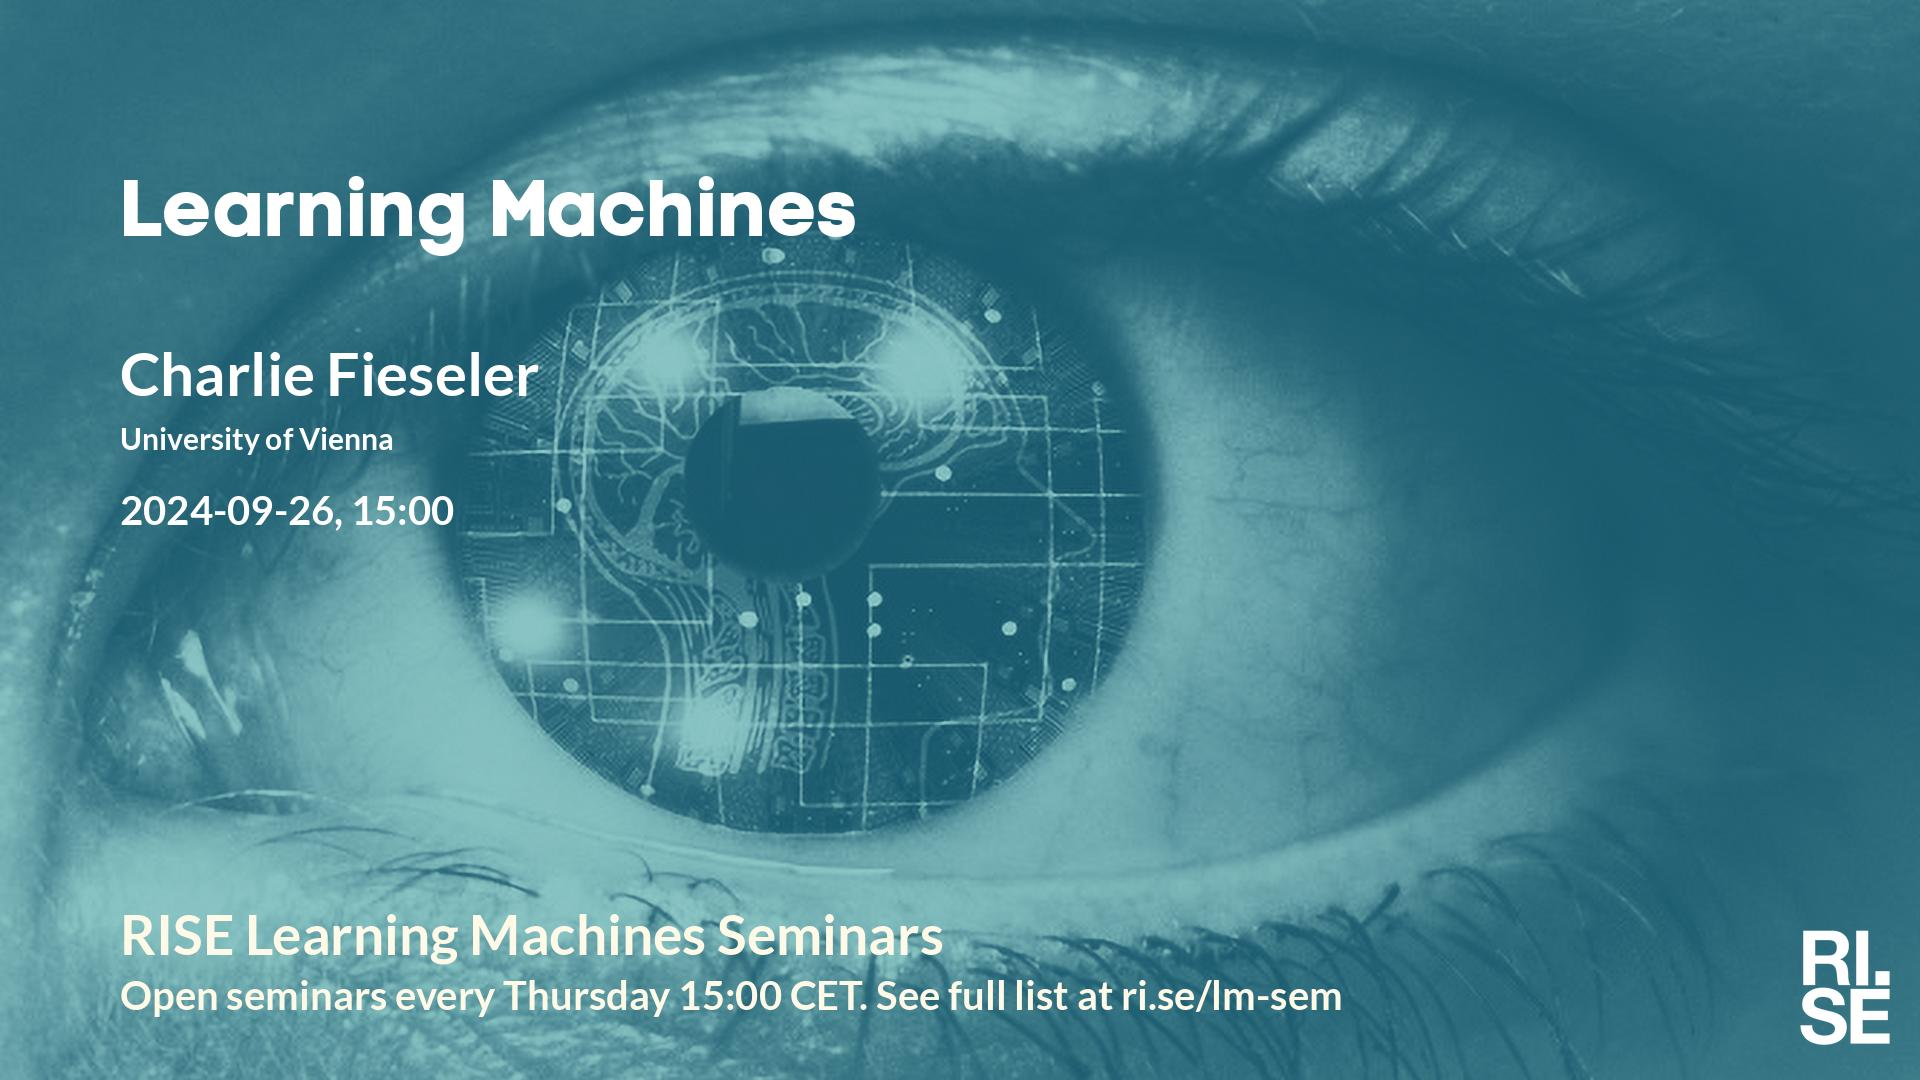
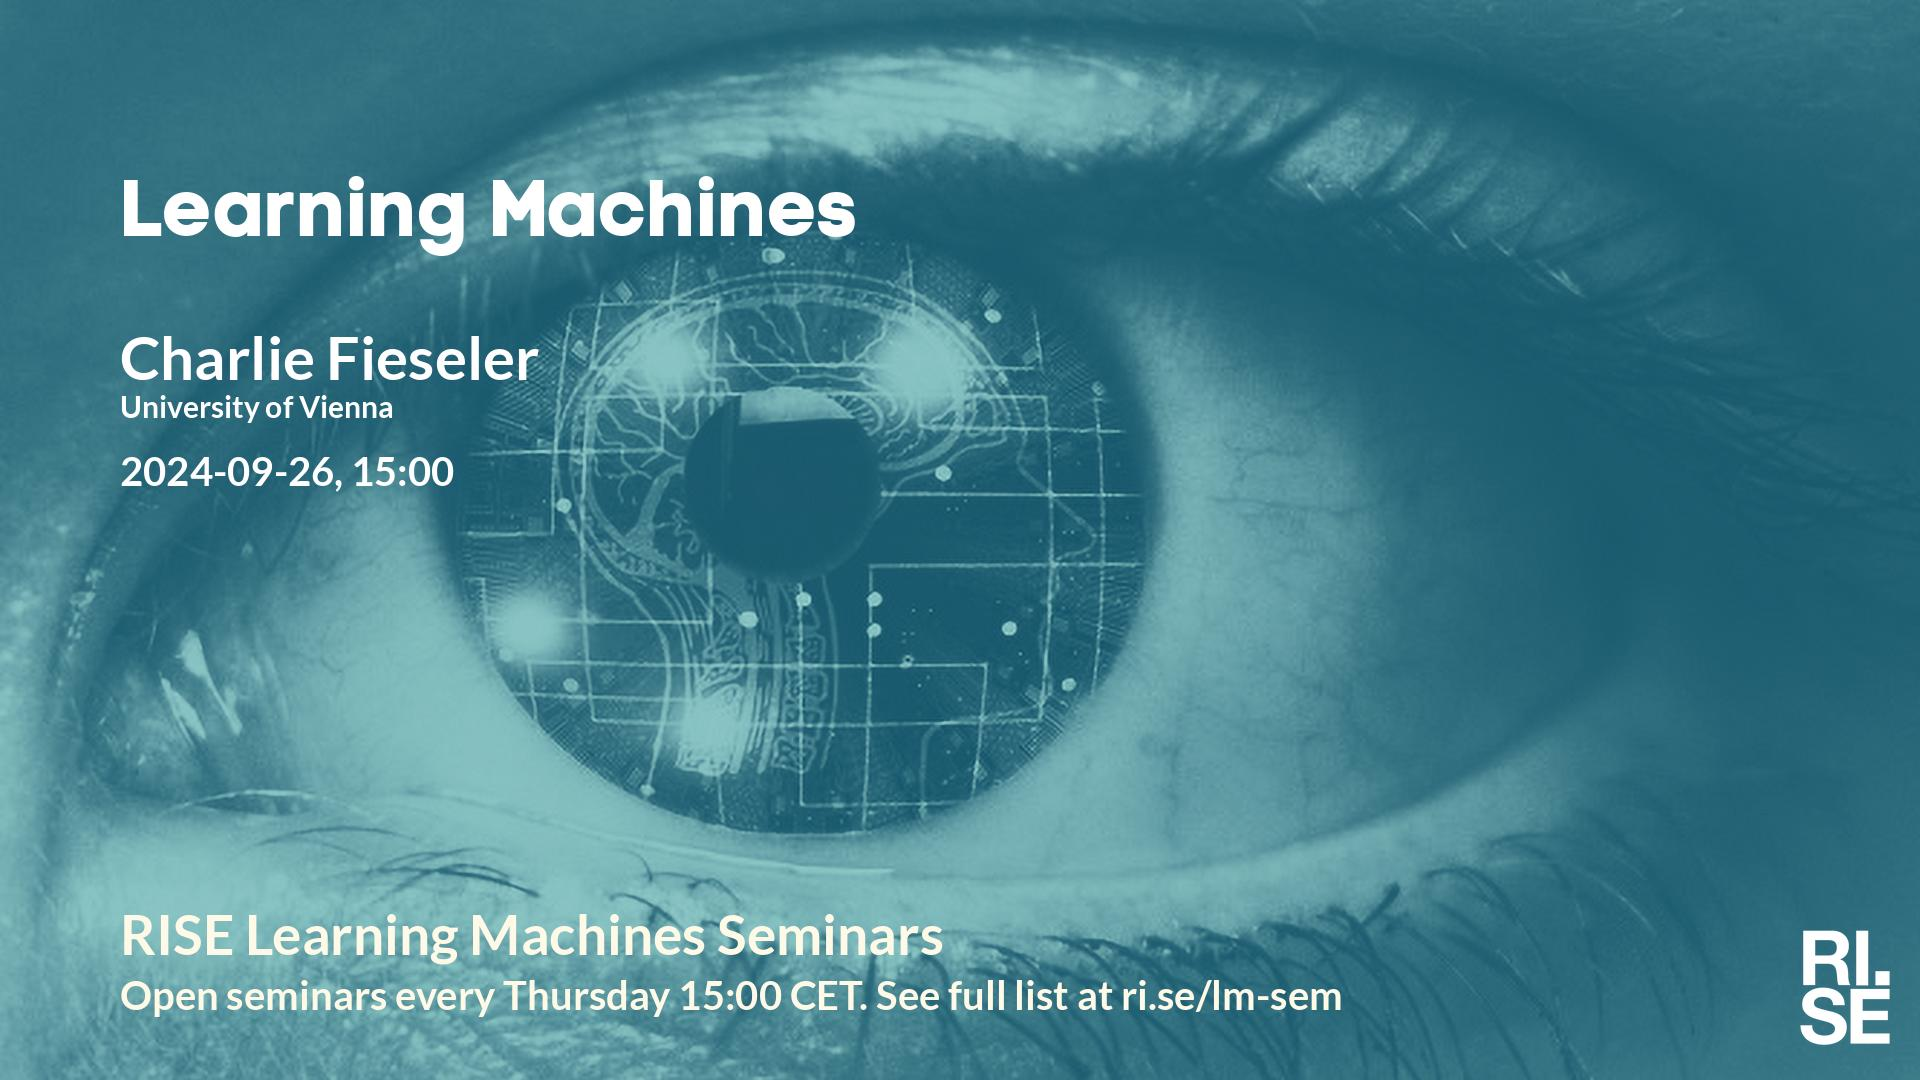
Updated plan on web site.

Changed region(s): [[0.0625, 0.3056, 0.2812, 0.4889]]

diff --git a/lm/index.md b/lm/index.md
@@ -5,7 +5,7 @@ metatags: "<meta name=\"robots\" content=\"noindex,nofollow\" />"
 <style type="text/css" scoped>
 td, th {border: 1px solid #ccc; padding: 0.6em;}
 table {border-collapse: collapse;}
-</style># Learning Machines Plan 2024-08-12
+</style># Learning Machines Plan 2024-08-16
 
 | date | speaker                                   | photo | shareable | meeting backdrop | youtube thumbnail | <a title="Speaker, Title, Abstract, Bio, Photo. Strikethrough means we don't have it yet.">comment</a>        |
 | ---- | ----------------------------------------- | ----- | ----- | ----- | ----- | -------------- |
@@ -15,8 +15,8 @@ table {border-collapse: collapse;}
 |  2024-09-26  |  [Charlie Fieseler, University of Vienna](2024-09-26.md)  |    |  [social media ](social-media-charlie-fieseler.jpg)  |  [meeting backdrop ](meeting-backdrop-charlie-fieseler.jpg)  |  [youtube thumbnail ](youtube-thumbnail-charlie-fieseler.jpg)  |  S~~TABP~~  |
 | <span style="color:purple"> 2024-10-03 </span> | <span style="color:purple"> *Up for grabs!!!* </span> | <span style="color:purple">  </span> | <span style="color:purple">  </span> | <span style="color:purple">  </span> | <span style="color:purple">  </span> | <span style="color:purple"> ~~STABP~~ </span> |
 | <span style="color:grey"> 2024-10-10 </span> | <span style="color:grey"> Alp K. ? </span> | <span style="color:grey">  </span> | <span style="color:grey">  </span> | <span style="color:grey">  </span> | <span style="color:grey">  </span> | <span style="color:grey"> S~~TABP~~ </span> |
-| <span style="color:grey"> 2024-10-17 </span> | <span style="color:grey"> Matthias O. ? </span> | <span style="color:grey">  </span> | <span style="color:grey">  </span> | <span style="color:grey">  </span> | <span style="color:grey">  </span> | <span style="color:grey"> S~~TABP~~ </span> |
-| <span style="color:grey"> 2024-10-24 </span> | <span style="color:grey"> Ekaterina S. ? </span> | <span style="color:grey">  </span> | <span style="color:grey">  </span> | <span style="color:grey">  </span> | <span style="color:grey">  </span> | <span style="color:grey"> S~~TABP~~ </span> |
+|  2024-10-17  |  [Matthias Obst, University of Gothenburg](2024-10-17.md)  |    |  [social media ](social-media-matthias-obst.jpg)  |  [meeting backdrop ](meeting-backdrop-matthias-obst.jpg)  |  [youtube thumbnail ](youtube-thumbnail-matthias-obst.jpg)  |  S~~TABP~~  |
+| <span style="color:purple"> 2024-10-24 </span> | <span style="color:purple"> *Up for grabs!!!* </span> | <span style="color:purple">  </span> | <span style="color:purple">  </span> | <span style="color:purple">  </span> | <span style="color:purple">  </span> | <span style="color:purple"> ~~STABP~~ </span> |
 | <span style="color:red"> 2024-10-31 </span> | <span style="color:red"> Höstlov </span> | <span style="color:red">  </span> | <span style="color:red">  </span> | <span style="color:red">  </span> | <span style="color:red">  </span> | <span style="color:red"> CANCELLED </span> |
 |  2024-11-07  |  [Joel Oskarsson, Linköping University](2024-11-07.md)  |    |  [social media ](social-media-joel-oskarsson.jpg)  |  [meeting backdrop ](meeting-backdrop-joel-oskarsson.jpg)  |  [youtube thumbnail ](youtube-thumbnail-joel-oskarsson.jpg)  |  S~~TABP~~  |
 |  2024-11-14  |  [Abdulhakim Abdi, Lund University](2024-11-14.md)  |    |  [social media ](social-media-abdulhakim-abdi.jpg)  |  [meeting backdrop ](meeting-backdrop-abdulhakim-abdi.jpg)  |  [youtube thumbnail ](youtube-thumbnail-abdulhakim-abdi.jpg)  |  S~~TABP~~  |

diff --git a/lm/2024-10-17.md b/lm/2024-10-17.md
@@ -6,7 +6,7 @@ Welcome to this week's Learning Machines seminar.
 
 **Title:** N/A
 
-**Speaker:** Charlie Fieseler, University of Vienna
+**Speaker:** Matthias Obst, University of Gothenburg
 
 **Abstract:** N/A
 
@@ -14,13 +14,12 @@ Welcome to this week's Learning Machines seminar.
 
 **Location:** This is an online seminar. Connect using Zoom.
 
-**Date:** 2024-09-26 15:00
+**Date:** 2024-10-17 15:00
 
-**Zoom link:** [https://rise.zoom.us/j/208117140?pwd=aWh6NFRKMkJNLzBjRWtZTDlvWGw0Zz09](https://rise.zoom.us/j/208117140?pwd=aWh6NFRKMkJNLzBjRWtZTDlvWGw0Zz09)
+**Zoom link:** [https://rise.zoom.us/j/208117140](https://rise.zoom.us/j/208117140)
 
 **Upcoming seminars:**
 
-* 2024-10-17: Matthias Obst, University of Gothenburg
 * 2024-11-07: Joel Oskarsson, Linköping University
 * 2024-11-14: Abdulhakim Abdi, Lund University
 * All seminars are 15:00 CET.
